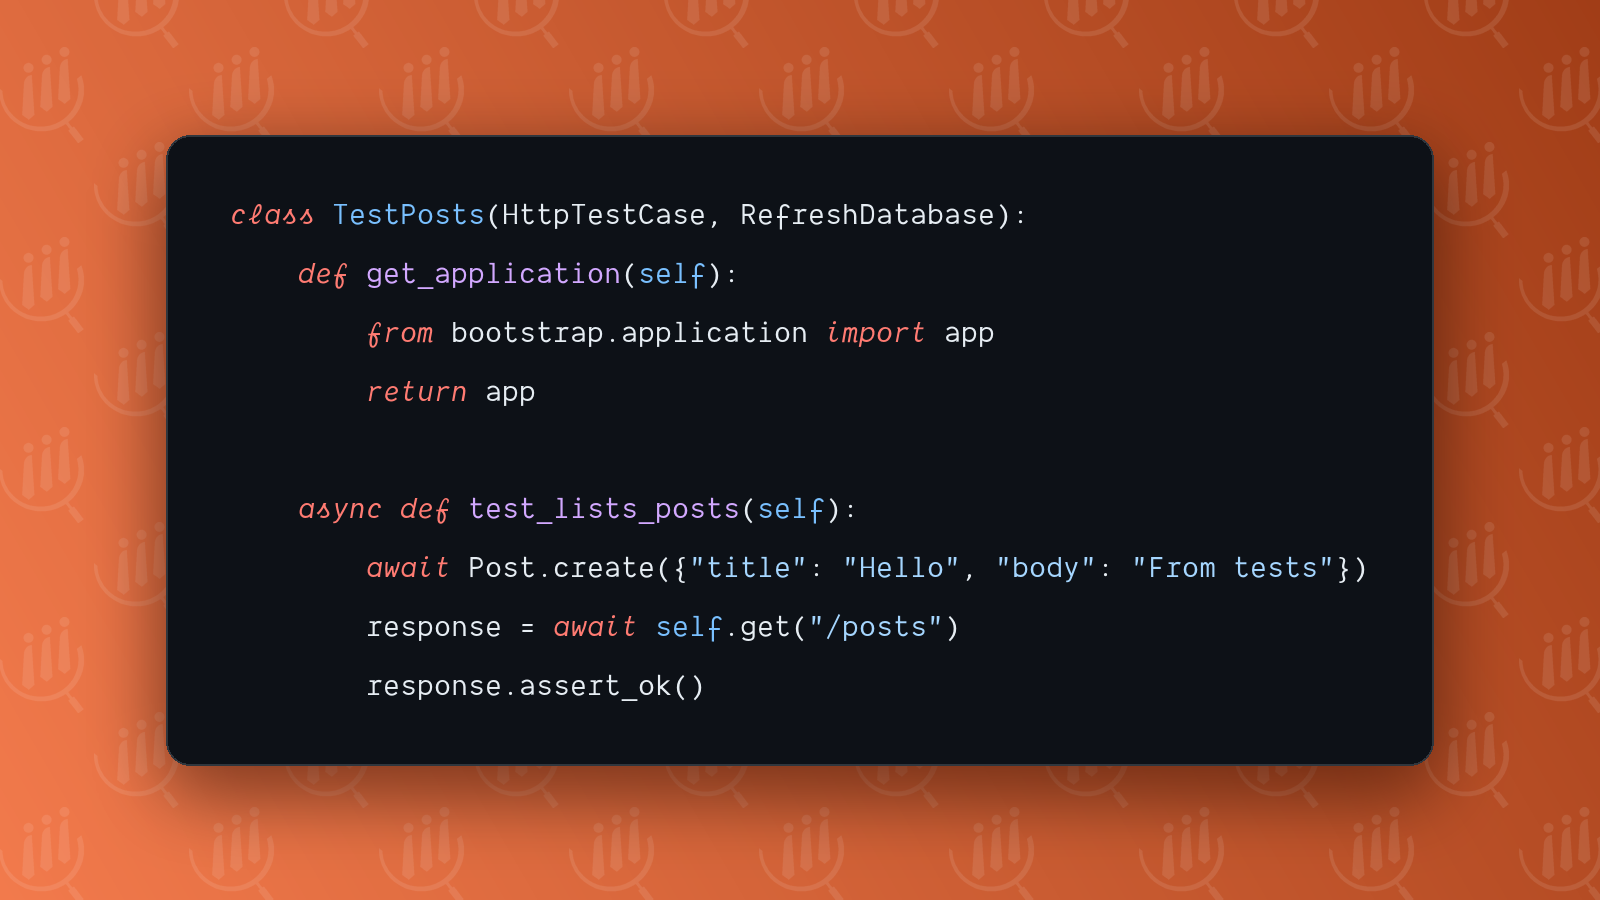
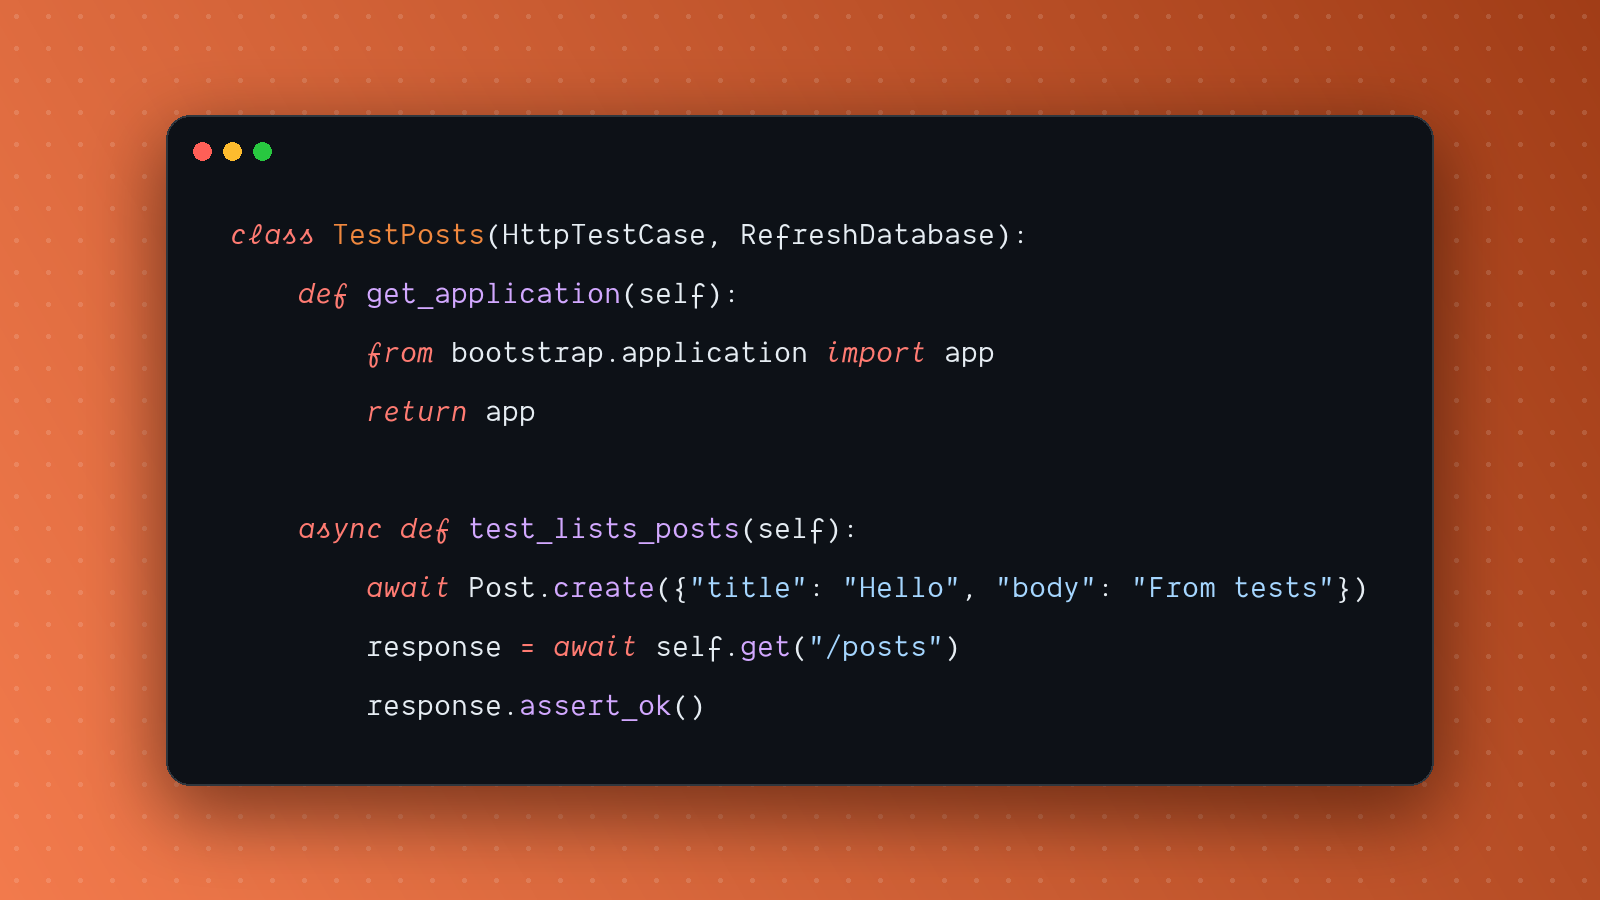
docs(tweets): GitHub dark highlighting, window buttons and dot-grid background

diff --git a/docs/tweets/render.py b/docs/tweets/render.py
@@ -1,37 +1,41 @@
 # /// script
 # requires-python = ">=3.11"
-# dependencies = ["pillow>=10", "pygments>=2.17", "svgelements>=1.9"]
+# dependencies = ["pillow>=10", "pygments>=2.17"]
 # ///
 import os
 import sys
 from functools import cache
 from pathlib import Path
 
-from PIL import Image, ImageChops, ImageDraw, ImageFilter, ImageFont
+from PIL import Image, ImageDraw, ImageFilter, ImageFont
 from pygments.lexers import get_lexer_for_filename
-from pygments.token import Comment, Keyword, Name, Number, Operator, String
-from svgelements import SVG, Close, Line, Move
-from svgelements import Path as SvgPath
+from pygments.styles import get_style_by_name
+from pygments.token import Comment, Keyword, Name, Operator, Punctuation, Text
 
 WIDTH, HEIGHT = 1600, 900
 GRADIENT = ("#a13d17", "#f27a4c")
-LOGO = Path(__file__).parent / "logo.svg"
-LOGO_SIZE = 96
-LOGO_GAP = 190
-LOGO_ALPHA = 0.1
+DOT_GAP = 32
+DOT_RADIUS = 2
+DOT_COLOR = (255, 255, 255, 34)
 SHADOW = (60, 15, 0, 150)
-CARD = "#0d1117"
+STYLE = get_style_by_name("github-dark")
+CARD = STYLE.background_color
 CARD_BORDER = "#30363d"
-TEXT = "#e6edf3"
+WINDOW_BUTTONS = ("#ff5f57", "#febc2e", "#28c840")
+BUTTON_RADIUS = 9
+TITLE_BAR = 56
 PADDING = 64
 LINE_HEIGHT = 1.9
 MAX_FONT_SIZE = 40
 MIN_FONT_SIZE = 16
+ITALIC_TOKENS = (Comment, Keyword, Operator.Word)
 FONT_DIRS = [
     Path(os.environ.get("TWEET_FONT_DIR", Path.home() / "Library" / "Fonts")),
     Path("/Library/Fonts"),
 ]
 FALLBACK_FONT = Path(__file__).parent / "fonts" / "JetBrainsMono-Regular.ttf"
+
+Span = tuple[str, str, bool]
 
 
 def font_file(name: str) -> Path:
@@ -44,88 +48,69 @@ def font_file(name: str) -> Path:
 REGULAR = font_file("DankMono-Regular.otf")
 ITALIC = font_file("DankMono-Italic.otf")
 
-ITALIC_TOKENS = (Comment, Keyword, Operator.Word)
-PALETTE = [
-    (Comment, "#8b949e"),
-    (Keyword, "#ff7b72"),
-    (Operator.Word, "#ff7b72"),
-    (Name.Function, "#d2a8ff"),
-    (Name.Decorator, "#d2a8ff"),
-    (Name.Class, "#79c0ff"),
-    (Name.Builtin, "#79c0ff"),
-    (String, "#a5d6ff"),
-    (Number, "#79c0ff"),
-]
+
+def refined(tokens: list[tuple], shell: bool) -> list[tuple]:
+    result = []
+    command_expected = True
+    for index, (token_type, value) in enumerate(tokens):
+        following = next((v for _, v in tokens[index + 1 :] if v.strip()), "")
+        is_call = token_type in (
+            Name,
+            Name.Builtin,
+            Name.Other,
+        ) and following.startswith("(")
+        is_command = (
+            shell and command_expected and token_type in Text and bool(value.strip())
+        )
+        if token_type is Name.Namespace:
+            token_type = Name
+        elif token_type in Operator and value == ".":
+            token_type = Punctuation
+        elif is_call or is_command:
+            token_type = Name.Function
+        if value.strip():
+            command_expected = False
+        if "\n" in value:
+            command_expected = True
+        result.append((token_type, value))
+    return result
 
 
-def color_for(token_type) -> str:
-    for parent, color in PALETTE:
-        if token_type in parent:
-            return color
-    return TEXT
+def span(token_type, text: str) -> Span:
+    color = STYLE.style_for_token(token_type)["color"] or "e6edf3"
+    slanted = any(token_type in parent for parent in ITALIC_TOKENS)
+    return text, f"#{color}", slanted
 
 
-def is_italic(token_type) -> bool:
-    return any(token_type in parent for parent in ITALIC_TOKENS)
-
-
-def tokenized_lines(path: Path) -> list[list[tuple[str, str, bool]]]:
+def tokenized_lines(path: Path) -> list[list[Span]]:
     lexer = get_lexer_for_filename(path.name, stripnl=False)
-    lines: list[list[tuple[str, str, bool]]] = [[]]
-    for token_type, value in lexer.get_tokens(path.read_text().rstrip("\n")):
+    tokens = list(lexer.get_tokens(path.read_text().rstrip("\n")))
+    shell = path.suffix == ".sh"
+    lines: list[list[Span]] = [[]]
+    for token_type, value in refined(tokens, shell):
         for index, part in enumerate(value.split("\n")):
             if index:
                 lines.append([])
             if part:
-                lines[-1].append((part, color_for(token_type), is_italic(token_type)))
+                lines[-1].append(span(token_type, part))
     if not lines[-1]:
         lines.pop()
     return lines
 
 
-def fitting_size(lines: list[list[tuple[str, str, bool]]]) -> int:
-    columns = max(sum(len(text) for text, _, _ in line) for line in lines)
+def columns_of(lines: list[list[Span]]) -> int:
+    return max(sum(len(text) for text, _, _ in line) for line in lines)
+
+
+def fitting_size(lines: list[list[Span]]) -> int:
+    columns = columns_of(lines)
     for size in range(MAX_FONT_SIZE, MIN_FONT_SIZE - 1, -1):
-        width = (
-            ImageFont.truetype(str(REGULAR), size).getlength("M") * columns
-            + PADDING * 2
-        )
-        height = size * LINE_HEIGHT * len(lines) + PADDING * 2
-        if width <= WIDTH - 320 and height <= HEIGHT - 160:
+        advance = ImageFont.truetype(str(REGULAR), size).getlength("M")
+        width = advance * columns + PADDING * 2
+        height = size * LINE_HEIGHT * len(lines) + PADDING * 2 + TITLE_BAR
+        if width <= WIDTH - 320 and height <= HEIGHT - 120:
             return size
     return MIN_FONT_SIZE
-
-
-def outline(path: SvgPath) -> list[tuple[float, float]]:
-    points = []
-    for segment in path:
-        if isinstance(segment, (Move, Line, Close)):
-            points.append(segment.end)
-        else:
-            points.extend(segment.point(step / 16) for step in range(1, 17))
-    return [(point.x, point.y) for point in points if point is not None]
-
-
-def logo_mask(size: int) -> Image.Image:
-    supersample = 4
-    svg = SVG.parse(str(LOGO))
-    left, top, right, bottom = svg.bbox()
-    factor = size * supersample / max(right - left, bottom - top)
-    mask = Image.new("1", (size * supersample, size * supersample), 0)
-    for element in svg.elements():
-        if not isinstance(element, SvgPath):
-            continue
-        for subpath in element.as_subpaths():
-            points = [
-                ((x - left) * factor, (y - top) * factor)
-                for x, y in outline(SvgPath(subpath))
-            ]
-            if len(points) < 3:
-                continue
-            layer = Image.new("1", mask.size, 0)
-            ImageDraw.Draw(layer).polygon(points, fill=1)
-            mask = ImageChops.logical_xor(mask, layer)
-    return mask.convert("L").resize((size, size), Image.Resampling.LANCZOS)
 
 
 def gradient() -> Image.Image:
@@ -140,13 +125,40 @@ def gradient() -> Image.Image:
 @cache
 def background() -> Image.Image:
     image = gradient()
-    mark = logo_mask(LOGO_SIZE).point(lambda value: int(value * LOGO_ALPHA))
-    white = Image.new("RGB", mark.size, "white")
-    for row, y in enumerate(range(-LOGO_SIZE // 2, HEIGHT, LOGO_GAP // 2)):
-        shift = LOGO_GAP // 2 if row % 2 else 0
-        for x in range(-LOGO_SIZE + shift, WIDTH, LOGO_GAP):
-            image.paste(white, (x, y), mark)
+    dots = Image.new("RGBA", (WIDTH, HEIGHT), (0, 0, 0, 0))
+    draw = ImageDraw.Draw(dots)
+    for y in range(DOT_GAP // 2, HEIGHT, DOT_GAP):
+        for x in range(DOT_GAP // 2, WIDTH, DOT_GAP):
+            draw.ellipse(
+                (x - DOT_RADIUS, y - DOT_RADIUS, x + DOT_RADIUS, y + DOT_RADIUS),
+                fill=DOT_COLOR,
+            )
+    image.paste(dots, mask=dots)
     return image
+
+
+def draw_shadow(image: Image.Image, box: tuple[int, int, int, int]) -> None:
+    shadow = Image.new("RGBA", (WIDTH, HEIGHT), (0, 0, 0, 0))
+    ImageDraw.Draw(shadow).rounded_rectangle(
+        (box[0], box[1] + 24, box[2], box[3] + 24), 28, fill=SHADOW
+    )
+    shadow = shadow.filter(ImageFilter.GaussianBlur(36))
+    image.paste(shadow, mask=shadow)
+
+
+def draw_window_buttons(draw: ImageDraw.ImageDraw, left: int, top: int) -> None:
+    center_y = top + TITLE_BAR // 2 + 8
+    for index, color in enumerate(WINDOW_BUTTONS):
+        center_x = left + 36 + index * 30
+        draw.ellipse(
+            (
+                center_x - BUTTON_RADIUS,
+                center_y - BUTTON_RADIUS,
+                center_x + BUTTON_RADIUS,
+                center_y + BUTTON_RADIUS,
+            ),
+            fill=color,
+        )
 
 
 def render(source: Path, target: Path) -> None:
@@ -155,29 +167,22 @@ def render(source: Path, target: Path) -> None:
     font = ImageFont.truetype(str(REGULAR), size)
     italic = ImageFont.truetype(str(ITALIC), size)
     advance = font.getlength("M")
-    line_height = font.size * LINE_HEIGHT
-    columns = max(sum(len(text) for text, _, _ in line) for line in lines)
-    card_width = int(advance * columns + PADDING * 2)
-    card_height = int(
-        line_height * len(lines) + PADDING * 2 - (line_height - font.size)
-    )
+    line_height = size * LINE_HEIGHT
+    card_width = int(advance * columns_of(lines) + PADDING * 2)
+    code_height = line_height * (len(lines) - 1) + size
+    card_height = int(TITLE_BAR + code_height + PADDING * 2 - 16)
     left = (WIDTH - card_width) // 2
     top = (HEIGHT - card_height) // 2
     box = (left, top, left + card_width, top + card_height)
 
     image = background().copy()
-    shadow = Image.new("RGBA", (WIDTH, HEIGHT), (0, 0, 0, 0))
-    ImageDraw.Draw(shadow).rounded_rectangle(
-        (box[0], box[1] + 24, box[2], box[3] + 24), 28, fill=SHADOW
-    )
-    shadow = shadow.filter(ImageFilter.GaussianBlur(36))
-    image.paste(shadow, mask=shadow)
-
+    draw_shadow(image, box)
     draw = ImageDraw.Draw(image)
     draw.rounded_rectangle(box, 24, fill=CARD, outline=CARD_BORDER, width=2)
+    draw_window_buttons(draw, left, top)
     for row, line in enumerate(lines):
         x = left + PADDING
-        y = top + PADDING + row * line_height
+        y = top + TITLE_BAR + PADDING - 16 + row * line_height
         for text, color, slanted in line:
             draw.text((x, y), text, font=italic if slanted else font, fill=color)
             x += advance * len(text)

diff --git a/docs/adr/AGENTS.md b/docs/adr/AGENTS.md
@@ -51,4 +51,4 @@ Read this index first, then open the records relevant to the change. Before impl
 | [059](059-subquery-where-in-and-select-exists.md) | 2026-10-31 | Subqueries in `where_in`/`where_not_in`, `where_not_exists` and `add_select_exists` | Membership, anti-join and per-row exists flags needed `DB.select`: `where_in(col, builder)` raised `'QueryBuilder' object is not iterable` and no method emitted `NOT EXISTS` or an `EXISTS` column. `where_in`/`where_not_in` now take a builder or a callable (like `select_sub`) and render `col IN (subquery)` via `SubSelectExpression`; iterables are unchanged. `where_exists`/`or_where_exists` also take a callable; new `where_not_exists`/`or_where_not_exists`. `add_select_exists(alias, query)` appends `EXISTS(subquery) AS alias` (selecting `{table}.*` first when nothing is selected) through a `SubGroupExpression(exists=True)` and the grammar's `select_exists_string()`; MSSQL renders `CASE WHEN EXISTS(...) THEN 1 ELSE 0 END`. A shared `_resolve_subquery` raises one `TypeError`. Subquery bindings stay bound and land in SQL order. `Model` proxies all. Limits: Postgres returns `bool`, others `1`/`0`; `NOT IN` over a subquery with `NULL` matches nothing. Chosen over raw SQL or separate `*_sub` method names. |
 | [061](061-builder-row-locks.md) | 2026-10-31 | Row locks on the query builder: `lock_for_update` and `shared_lock` | The grammars already rendered a per-dialect lock clause, but no builder method set it and `get_grammar()` never passed `lock`, so apps wrote `SELECT ... FOR UPDATE` by hand. `QueryBuilder.lock_for_update()`/`shared_lock()` set `_lock` to `"update"`/`"share"` (last call wins) and `get_grammar()` passes it: Postgres `FOR UPDATE`/`FOR SHARE`, MySQL `FOR UPDATE`/`LOCK IN SHARE MODE`, SQLite a no-op, and MSSQL now `WITH(ROWLOCK, UPDLOCK, HOLDLOCK)`/`WITH(ROWLOCK, HOLDLOCK)` instead of a bare `ROWLOCK` hint. `Model` proxies both. Only selects lock; `new()` groups and the `paginate()` count start unlocked. Chosen over update-first, whose `FOR NO KEY UPDATE` does not wait for an in-flight foreign-key insert, and over a stringly `lock(mode)`. Known limit: Postgres refuses a lock with aggregates, `DISTINCT` or `GROUP BY`. |
 | [062](062-update-uses-the-updated-table.md) | 2026-11-01 | `update()` compiles against the updated table | `update()` built its grammar with `self.grammar()`, keeping the default table `users`, so MySQL and MSSQL prefixed every `SET`/`WHERE` column with `users` whatever table was updated (`UPDATE [queues] SET [users].[status] = ?`). It now passes `table=self._table`. Postgres and SQLite do not prefix update columns. `update()` still returns the row count; a queue claim reads locked rows, iterates and updates each by key, as Laravel's database queue does, so no `UPDATE ... RETURNING` is added. |
-| [063](063-tweet-code-card-renderer.md) | 2026-11-06 | Tweet code card renderer | `docs/tweets/render.py` (PEP 723, Pillow + Pygments) renders each `<thread>/cards/*` file into a 1600x900 PNG in `<thread>/images/`: a dark rounded card with syntax colours on a brand-orange gradient patterned with the logo (traced from `logo.svg` via `svgelements`), sized to fit. It uses Dank Mono from the local font folders (italic keywords and comments) and falls back to the bundled JetBrains Mono; Dank Mono is a paid font and is not committed. Thread files hold only the text to post and the image link. Chosen over manual screenshot tools and a headless-browser pipeline. |
+| [063](063-tweet-code-card-renderer.md) | 2026-11-06 | Tweet code card renderer | `docs/tweets/render.py` (PEP 723, Pillow + Pygments) renders each `<thread>/cards/*` file into a 1600x900 PNG in `<thread>/images/`: a GitHub-dark window card (Pygments `github-dark`, with calls and shell commands coloured as functions, and close/minimise/zoom buttons) on a brand-orange gradient with a dot grid, sized to fit. It uses Dank Mono from the local font folders (italic keywords and comments) and falls back to the bundled JetBrains Mono; Dank Mono is a paid font and is not committed. Thread files hold only the text to post and the image link. Chosen over manual screenshot tools and a headless-browser pipeline. |

diff --git a/docs/adr/063-tweet-code-card-renderer.md b/docs/adr/063-tweet-code-card-renderer.md
@@ -14,7 +14,7 @@ Tweet threads in `docs/tweets/` need code card images in one consistent style: a
 
 ## Decision
 
-`docs/tweets/render.py` is a PEP 723 script (`uv run docs/tweets/render.py <thread-dir>`). For every file in `<thread-dir>/cards/`, it picks a Pygments lexer from the file extension, colours the tokens and draws a 1600x900 PNG to `<thread-dir>/images/<stem>.png`. The background is a diagonal gradient between the brand oranges `#a13d17` and `#f27a4c`, overlaid with a staggered pattern of the logo at 10% white. The logo paths are traced from `docs/tweets/logo.svg` with `svgelements`, so no native SVG library is needed.
+`docs/tweets/render.py` is a PEP 723 script (`uv run docs/tweets/render.py <thread-dir>`). For every file in `<thread-dir>/cards/`, it picks a Pygments lexer from the file extension, colours the tokens with Pygments' `github-dark` style and draws a 1600x900 PNG to `<thread-dir>/images/<stem>.png`. The card is a GitHub-dark window with close, minimise and zoom buttons. Pygments leaves method calls and shell commands as plain names, so the script colours a name followed by `(`, and the first word of each shell line, as functions, as GitHub does. It also draws module paths and the `.` in attribute access in the plain text colour. The background is a diagonal gradient between the brand oranges `#a13d17` and `#f27a4c`, with a white dot grid at low opacity. No logo is used: the repository has no fastapi-startkit logo, and the only SVG in the docs theme is another product's icon.
 
 The font size shrinks from 40px until the card fits the canvas. Code uses Dank Mono from the local font folders (`~/Library/Fonts`, `/Library/Fonts` or `TWEET_FONT_DIR`), with keywords and comments in its italic cut. Dank Mono is a paid font and is not committed. When it is missing, the script falls back to the bundled JetBrains Mono (OFL).
 
